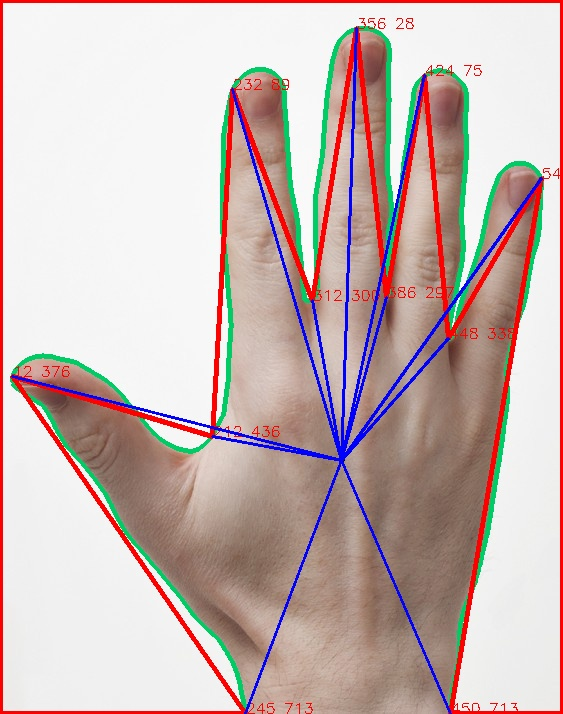
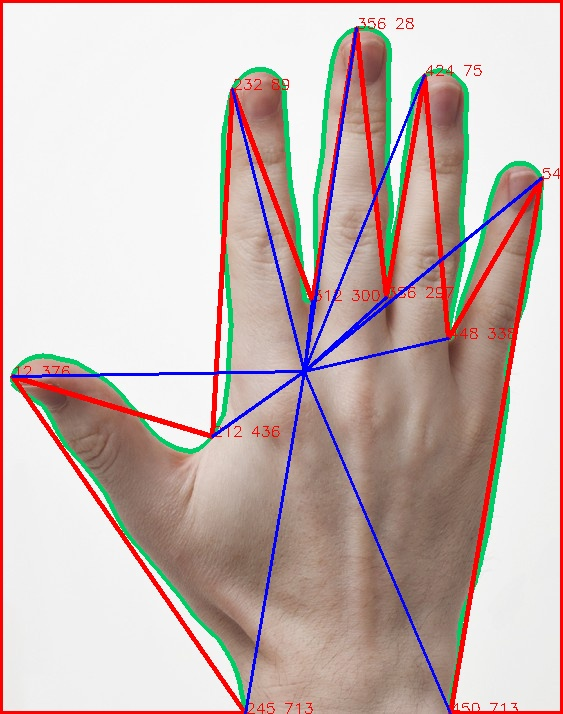
output magnitude,orientation, x/y vertices

diff --git a/single_acp_capture_images.py b/single_acp_capture_images.py
@@ -14,6 +14,9 @@ vertex_num = 0
 vertex_x = []
 vertex_y = []
 distance_map = []
+orientation_map = []
+vertex_map_x = []
+vertex_map_y = []
 
 image_path = "./images/right_hand_"
 image_index = 1
@@ -23,9 +26,47 @@ image_format = ".jpg"
 image_size = 3
 
 
+
+def orienation_cal(x,y):
+    #   Right +x; Downward +y
+    #   Find inclination angle from +x axis (clockwise)
+    angle_degree = 0.0
+
+    if(y < 0)and(x > 0):
+        y = y * -1
+        angle_degree = 360 - math.degrees(math.atan(y/x))
+        return angle_degree
+   
+    if(y > 0)and(x > 0):
+        angle_degree = math.degrees(math.atan(y/x))
+        return angle_degree
+
+    if(y > 0)and(x < 0):
+        x = x * -1
+        angle_degree = 180 - math.degrees(math.atan(y/x))
+        return angle_degree
+
+    if(y < 0)and(x < 0):
+        x = x * -1
+        y = y * -1
+        angle_degree = 180 + math.degrees(math.atan(y/x))
+        return angle_degree
+
+    if(y == 0)and(x > 0):
+        return 0
+    if(y == 0)and(x < 0):
+        return 180
+    if(x == 0)and(y > 0):
+        return 90
+    if(x == 0)and(y < 0):
+        return 270
+
+    
+
+
 def acp_info(event,x,y,flag,param):
     global raw_image,marker_color
-    global vertex_num,vertex_x,vertex_y,distance_map
+    global vertex_num,vertex_x,vertex_y,distance_map,orientation_map,vertex_map_x,vertex_map_y
     global image_path,image_index,image_format
     #When Left is clicked in the mouse
     if event == cv2.EVENT_LBUTTONDOWN:  
@@ -33,23 +74,51 @@ def acp_info(event,x,y,flag,param):
         cv2.circle(raw_image,(x,y),3,marker_color,-1)
         i = 0
         distance = 0
+        orientation = 0
         while(i<vertex_num):
-            distance = int(math.sqrt((vertex_x[i]-x)**2+(vertex_y[i]-y)**2))
-            print("Mapping Distance of vertex #{} = {}".format(i,distance))
+            distance = math.sqrt((vertex_x[i]-x)**2+(vertex_y[i]-y)**2)
+            diff_y = y-vertex_y[i]
+            diff_x = x-vertex_x[i]
+            orientation = orienation_cal(diff_x,diff_y)         
+            print("Mapping Info of vertex #{} --> Mag = {}  Orientation = {}".format(i,distance,orientation))
             distance_map.append(distance)
+            orientation_map.append(orientation)
+            vertex_map_x.append(vertex_x[i])
+            vertex_map_y.append(vertex_y[i])
             cv2.line(raw_image,(vertex_x[i],vertex_y[i]),(x,y),map_color,2)
             img_save_path = "./output_image/"
             img_save_header = "right_hand_map_"
             save_description = img_save_path + img_save_header +str(image_index) + image_format
             cv2.imwrite(save_description,raw_image)
             i+=1
-        with open('./output_csv/map_single_acp_images.csv','a',newline='') as csvfile:
+        with open('./output_csv/map_magnitude.csv','a',newline='') as csvfile:
             writer = csv.writer(csvfile)
             writer.writerow([distance_map[0],distance_map[1],distance_map[2],distance_map[3],distance_map[4] \
                             ,distance_map[5],distance_map[6],distance_map[7],distance_map[8],distance_map[9]\
                             ,distance_map[10]])
-        distance_map = []
 
+        with open('./output_csv/map_orientation.csv','a',newline='') as csvfile:
+            writer = csv.writer(csvfile)
+            writer.writerow([orientation_map[0],orientation_map[1],orientation_map[2],orientation_map[3],orientation_map[4] \
+                            ,orientation_map[5],orientation_map[6],orientation_map[7],orientation_map[8],orientation_map[9]\
+                            ,orientation_map[10]])
+
+        with open('./output_csv/map_vertex_x.csv','a',newline='') as csvfile:
+            writer = csv.writer(csvfile)
+            writer.writerow([vertex_map_x[0],vertex_map_x[1],vertex_map_x[2],vertex_map_x[3],vertex_map_x[4] \
+                            ,vertex_map_x[5],vertex_map_x[6],vertex_map_x[7],vertex_map_x[8],vertex_map_x[9]\
+                            ,vertex_map_x[10]])
+
+        with open('./output_csv/map_vertex_y.csv','a',newline='') as csvfile:
+            writer = csv.writer(csvfile)
+            writer.writerow([vertex_map_y[0],vertex_map_y[1],vertex_map_y[2],vertex_map_y[3],vertex_map_y[4] \
+                            ,vertex_map_y[5],vertex_map_y[6],vertex_map_y[7],vertex_map_y[8],vertex_map_y[9]\
+                            ,vertex_map_y[10]])
+            
+        distance_map = []
+        orientation_map = []
+        vertex_map_x = []
+        vertex_map_y = []
         cv2.imshow("Acp Picker",raw_image)
 
 
